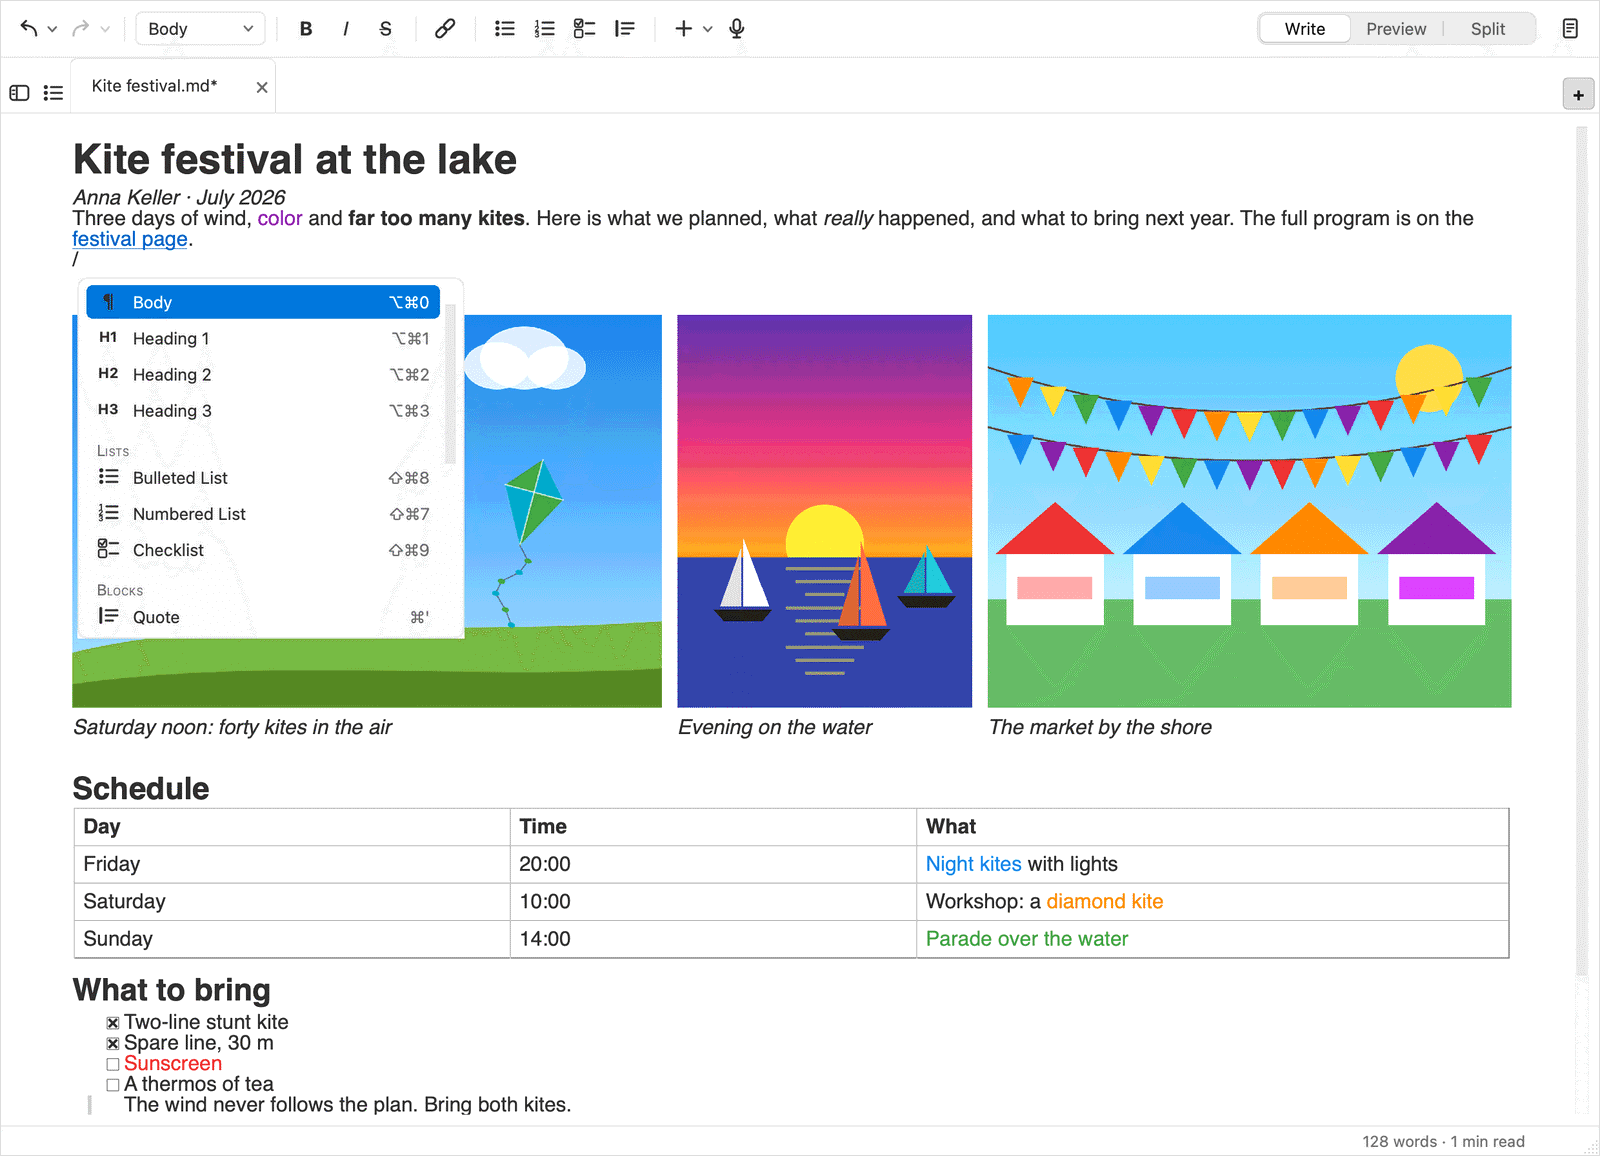
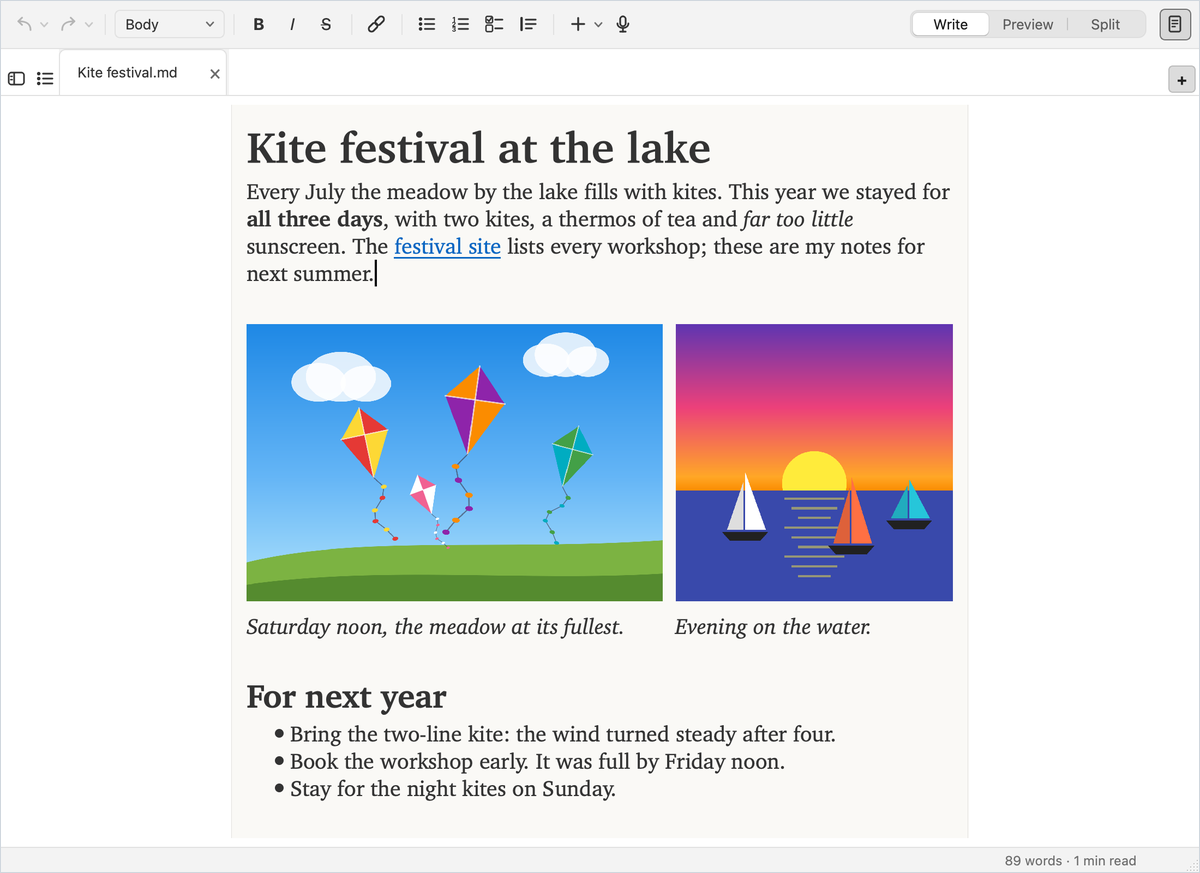
The README opens on one calm, finished note
As calm writing apps show themselves: one believable note in Paper Mode's
readable column, the reader's serif at 20 pt as Settings sets it, two
bright pictures as one mosaic row, a heading and a short list. Colour
comes from the pictures only, as a saved .md holds no text colours;
nothing is open, selected or unsaved, and the text stays legible at
README width. English and German, light and dark.

diff --git a/README.de.md b/README.de.md
@@ -19,7 +19,7 @@
 
 <picture>
   <source media="(prefers-color-scheme: dark)" srcset="docs/images/de/hero-dark.png">
-  <img src="docs/images/de/hero-light.png" alt="MyEditor mit einer Notiz über ein Drachenfest: nach „/“ eine Liste der Stile und Listen, drei bunte Bilder, eine Tabelle und eine Checkliste">
+  <img src="docs/images/de/hero-light.png" alt="MyEditor mit einer Notiz über ein Drachenfest in einer ruhigen Lesespalte: ein kurzer Absatz, zwei bunte Bilder mit Unterschriften und eine Liste">
 </picture>
 
 ## Was du damit machen kannst

diff --git a/README.md b/README.md
@@ -19,7 +19,7 @@
 
 <picture>
   <source media="(prefers-color-scheme: dark)" srcset="docs/images/hero-dark.png">
-  <img src="docs/images/hero-light.png" alt="MyEditor with a note about a kite festival: the slash menu open, three bright pictures, a table with coloured words and a checklist">
+  <img src="docs/images/hero-light.png" alt="MyEditor with a note about a kite festival in a calm reading column: a short paragraph, two bright pictures with captions and a list">
 </picture>
 
 ## What you can do
